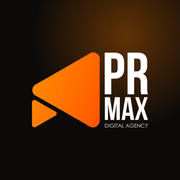
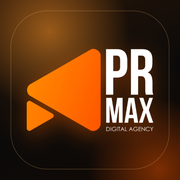
Адмінка: новий значок застосунку PRMAX

diff --git a/admin/index.html b/admin/index.html
@@ -8,7 +8,7 @@
 <link rel="icon" href="../img/favicon.svg" type="image/svg+xml">
 <!-- як застосунок на екрані iPhone: «Поділитися» → «На екран Додому» -->
 <link rel="manifest" href="manifest.webmanifest">
-<link rel="apple-touch-icon" href="icon-180.png">
+<link rel="apple-touch-icon" href="icon-180.png?v=2">
 <meta name="apple-mobile-web-app-capable" content="yes">
 <meta name="mobile-web-app-capable" content="yes">
 <meta name="apple-mobile-web-app-title" content="PRMAX">
